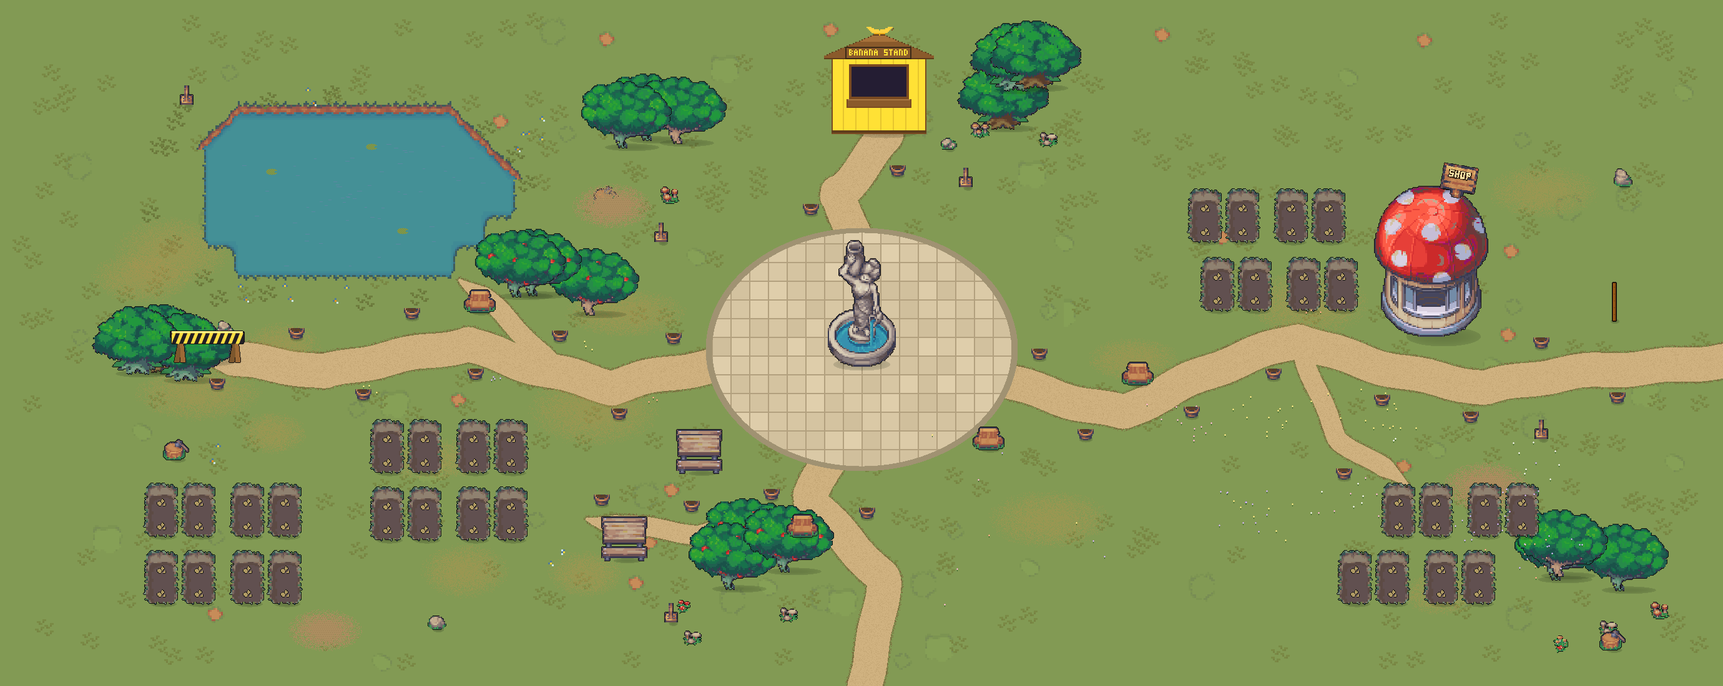
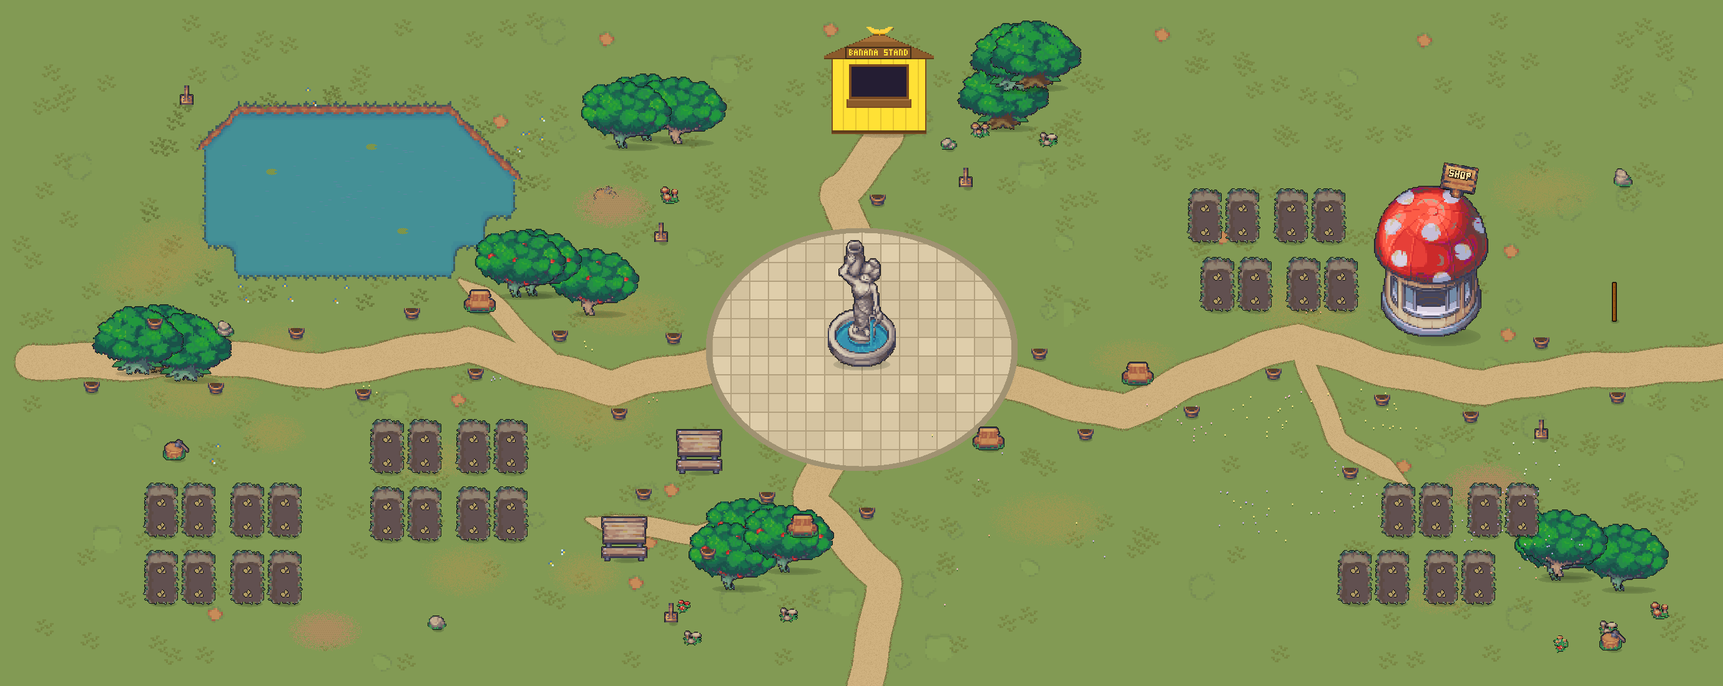
🛣 the west road opens — the Homestead joins the world's map
The park's west stub was reserved behind a sawhorse since v2; today it
falls (like the stand's north one on 30 Jul). The road now runs to the
west edge, DOORS.west walks you out to /homestead/?park, and arriving
from the homestead spawns you on it. The homestead's east road already
led here — the loop is closed, walkable both ways.
Fast travel learns the address too: The Homestead heads the door list
in every area (home first — it's home), '/homestead/?world' spawns
road-side like any walked arrival.

diff --git a/src/scripts/park-geo.js b/src/scripts/park-geo.js
@@ -7,7 +7,7 @@ export const ROAD_W = 88;
 export const POND = { x: 555, y: 315, rx: 265, ry: 150 };
 export const FOUNTAIN = [1380, 590, 109, 218, 6];
 export const MARKET = { stand: [1408, 215], cart: [2300, 545] };
-export const SIGNS = [[332, 584]];
+export const SIGNS = [];
 export const ROAD_SIGN = { x: 2586, y: 516 };
 export const OLDBENCH = [1583, 722];
 export const MEADOW = [1860, 640, 2500, 940];
@@ -16,13 +16,13 @@ export const BEDS = [[0, 1, 2, 3, 4, 5, 6, 7], [8, 9, 10, 11, 12, 13, 14, 15], [
 export const CORE_BEDS = 8;
 export const GROW_DITCHES = [[[1790, 232], [1850, 232], [1928, 232], [1988, 232]], [[2110, 232], [2170, 232], [2248, 232], [2308, 232]], [[2420, 232], [2480, 232], [2558, 232], [2618, 232]], [[1870, 842], [1930, 842], [2008, 842], [2068, 842]], [[1550, 892], [1610, 892], [1688, 892], [1748, 892]]];
 export const BED_SOLID = [-28, -50, 28, 4];
-export const BORDER_SPOTS = [[1389, 828], [1665, 573], [1739, 702], [1909, 666], [2040, 605], [2214, 647], [2356, 674], [2469, 555], [2591, 643], [1079, 548], [992, 669], [897, 544], [762, 605], [660, 508], [582, 638], [475, 540], [348, 621], [1299, 341], [1438, 279], [1236, 798], [1108, 817], [964, 807], [2153, 765]];
+export const BORDER_SPOTS = [[1389, 828], [1665, 573], [1739, 702], [1909, 666], [2040, 605], [2214, 647], [2356, 674], [2469, 555], [2591, 643], [1079, 548], [992, 669], [897, 544], [762, 605], [660, 508], [582, 638], [475, 540], [346, 628], [248, 525], [147, 626], [1406, 326], [1229, 803], [1134, 894], [1031, 798], [2163, 764]];
 export const ALGAE_SPOTS = [[380, 241], [472, 241], [518, 241], [656, 241], [702, 241], [380, 281], [472, 281], [518, 281], [564, 281], [610, 281], [656, 281], [702, 281], [748, 281], [380, 321], [426, 321], [472, 321], [518, 321], [564, 321], [610, 321], [656, 321], [702, 321], [748, 321], [380, 361], [426, 361], [472, 361], [518, 361], [564, 361], [610, 361], [702, 361], [748, 361], [426, 401], [472, 401], [518, 401], [564, 401], [610, 401], [702, 401]];
 export const BIRD_SPOTS = [[1060, 390], [1548, 302], [1076, 1000], [2470, 706], [300, 170]];
 export const BIRD_SPECIES = ['blue-jay','cardinal','cedar-waxwing','chickadee','crow','house-finch','hummingbird','magpie','red-robin','stellers-jay','white-dove','wood-thrush'];
-export const DOORS = { south: { x: 1380, y: 1060 }, east: { x: 2700, y: 560 } };
-export const OB_RECTS = [[247, 562, 273, 598], [284, 576, 310, 612], [207, 565, 233, 601], [1029, 190, 1055, 226], [1078, 195, 1104, 231], [990, 202, 1016, 238], [1188, 871, 1214, 907], [1162, 910, 1188, 946], [1250, 882, 1276, 918], [1593, 172, 1619, 208], [1613, 111, 1639, 147], [1645, 107, 1671, 143], [2587, 912, 2613, 948], [2485, 895, 2511, 931], [2490, 889, 2516, 925], [938, 470, 964, 506], [846, 439, 872, 475], [820, 441, 846, 477], [1324, 159, 1492, 221], [2200, 487, 2400, 551], [2212, 812, 2268, 866], [2272, 812, 2328, 866], [2350, 812, 2406, 866], [2410, 812, 2466, 866], [230, 812, 286, 866], [290, 812, 346, 866], [368, 812, 424, 866], [428, 812, 484, 866], [1922, 450, 1978, 504], [1982, 450, 2038, 504], [2060, 450, 2116, 504], [2120, 450, 2176, 504], [2142, 920, 2198, 974], [2202, 920, 2258, 974], [2280, 920, 2336, 974], [2340, 920, 2396, 974], [230, 920, 286, 974], [290, 920, 346, 974], [368, 920, 424, 974], [428, 920, 484, 974], [1902, 340, 1958, 394], [1962, 340, 2018, 394], [2040, 340, 2096, 394], [2100, 340, 2156, 394], [592, 710, 648, 764], [652, 710, 708, 764], [730, 710, 786, 764], [790, 710, 846, 764], [592, 818, 648, 872], [652, 818, 708, 872], [730, 818, 786, 872], [790, 818, 846, 872], [1076, 730, 1164, 766], [956, 870, 1044, 906], [734, 484, 802, 506], [1788, 600, 1856, 622], [1251, 844, 1319, 866], [1549, 704, 1617, 726], [288, 566, 376, 588]];
+export const DOORS = { south: { x: 1380, y: 1060 }, east: { x: 2700, y: 560 }, west: { x: 60, y: 585 } };
+export const OB_RECTS = [[247, 562, 273, 598], [284, 576, 310, 612], [207, 565, 233, 601], [1029, 190, 1055, 226], [1078, 195, 1104, 231], [990, 202, 1016, 238], [1188, 871, 1214, 907], [1162, 910, 1188, 946], [1250, 882, 1276, 918], [1593, 172, 1619, 208], [1613, 111, 1639, 147], [1645, 107, 1671, 143], [2587, 912, 2613, 948], [2485, 895, 2511, 931], [2490, 889, 2516, 925], [938, 470, 964, 506], [846, 439, 872, 475], [820, 441, 846, 477], [1324, 159, 1492, 221], [2200, 487, 2400, 551], [2212, 812, 2268, 866], [2272, 812, 2328, 866], [2350, 812, 2406, 866], [2410, 812, 2466, 866], [230, 812, 286, 866], [290, 812, 346, 866], [368, 812, 424, 866], [428, 812, 484, 866], [1922, 450, 1978, 504], [1982, 450, 2038, 504], [2060, 450, 2116, 504], [2120, 450, 2176, 504], [2142, 920, 2198, 974], [2202, 920, 2258, 974], [2280, 920, 2336, 974], [2340, 920, 2396, 974], [230, 920, 286, 974], [290, 920, 346, 974], [368, 920, 424, 974], [428, 920, 484, 974], [1902, 340, 1958, 394], [1962, 340, 2018, 394], [2040, 340, 2096, 394], [2100, 340, 2156, 394], [592, 710, 648, 764], [652, 710, 708, 764], [730, 710, 786, 764], [790, 710, 846, 764], [592, 818, 648, 872], [652, 818, 708, 872], [730, 818, 786, 872], [790, 818, 846, 872], [1076, 730, 1164, 766], [956, 870, 1044, 906], [734, 484, 802, 506], [1788, 600, 1856, 622], [1251, 844, 1319, 866], [1549, 704, 1617, 726]];
 export const OB_CIRCLES = [[970, 332, 20], [2583, 1043, 20], [282, 738, 20], [1380, 570, 39], [360, 540, 20], [2600, 300, 20], [1520, 240, 20], [700, 1010, 20], [2586, 516, 8], [1060, 390, 12], [1548, 302, 12], [1076, 1000, 12], [2470, 706, 12], [300, 170, 12]];
 export const OVERLAYS = [['ov-0.png', 187, 488, 147, 110, 598], ['ov-1.png', 224, 502, 147, 110, 612], ['ov-2.png', 147, 491, 147, 110, 601], ['ov-3.png', 970, 118, 145, 108, 226], ['ov-4.png', 1019, 123, 145, 108, 231], ['ov-5.png', 931, 130, 145, 108, 238], ['ov-6.png', 1129, 799, 145, 108, 907], ['ov-7.png', 1103, 838, 145, 108, 946], ['ov-8.png', 1191, 810, 145, 108, 918], ['ov-9.png', 1533, 98, 147, 110, 208], ['ov-10.png', 1553, 37, 147, 110, 147], ['ov-11.png', 1585, 33, 147, 110, 143], ['ov-12.png', 2528, 840, 145, 108, 948], ['ov-13.png', 2426, 823, 145, 108, 931], ['ov-14.png', 2431, 817, 145, 108, 925], ['ov-15.png', 879, 398, 145, 108, 506], ['ov-16.png', 787, 367, 145, 108, 475], ['ov-17.png', 761, 369, 145, 108, 477], ['ov-18.png', 1320, 43, 176, 172, 215], ['ov-19.png', 2201, 260, 199, 285, 545], ['ov-20.png', 1083, 688, 74, 72, 760], ['ov-21.png', 963, 828, 74, 72, 900], ['ov-22.png', 2582, 452, 8, 64, 516]];
 export const TREE_OVS = [0, 1, 2, 3, 4, 5, 6, 7, 8, 9, 10, 11, 12, 13, 14, 15, 16, 17];
-export const WEED_GRID = [[120,120],[168,120],[216,120],[264,120],[312,120],[360,120],[408,120],[456,120],[648,120],[696,120],[744,120],[792,120],[840,120],[888,120],[936,120],[984,120],[1032,120],[1080,120],[1128,120],[1176,120],[1224,120],[1272,120],[1320,120],[1464,120],[1512,120],[1560,120],[1704,120],[2040,120],[120,168],[168,168],[216,168],[264,168],[792,168],[840,168],[888,168],[936,168],[984,168],[1032,168],[1080,168],[1128,168],[1176,168],[1224,168],[1272,168],[1512,168],[1560,168],[1656,168],[1704,168],[2040,168],[120,216],[168,216],[216,216],[264,216],[840,216],[888,216],[936,216],[1128,216],[1176,216],[1224,216],[1272,216],[1560,216],[1656,216],[1704,216],[2040,216],[120,264],[168,264],[216,264],[888,264],[936,264],[984,264],[1032,264],[1080,264],[1128,264],[1176,264],[1224,264],[1272,264],[1560,264],[1608,264],[1656,264],[1704,264],[1752,264],[1800,264],[1848,264],[1896,264],[1944,264],[1992,264],[2040,264],[2088,264],[2136,264],[2184,264],[2232,264],[2280,264],[2328,264],[2376,264],[2424,264],[2472,264],[2520,264],[2568,264],[2616,264],[120,312],[168,312],[216,312],[888,312],[936,312],[1032,312],[1080,312],[1128,312],[1176,312],[1224,312],[1464,312],[1512,312],[1608,312],[1656,312],[1704,312],[1752,312],[1800,312],[1848,312],[2232,312],[2280,312],[2328,312],[2376,312],[2424,312],[2472,312],[2520,312],[120,360],[168,360],[216,360],[888,360],[936,360],[1032,360],[1080,360],[1128,360],[1176,360],[1224,360],[1560,360],[1608,360],[1656,360],[1704,360],[1752,360],[1800,360],[1848,360],[2232,360],[2280,360],[2328,360],[2376,360],[2424,360],[2472,360],[2520,360],[2568,360],[2616,360],[120,408],[168,408],[216,408],[264,408],[840,408],[888,408],[936,408],[984,408],[1032,408],[1128,408],[1608,408],[1656,408],[1704,408],[1752,408],[1800,408],[1848,408],[2232,408],[2280,408],[2328,408],[2376,408],[2424,408],[2472,408],[2520,408],[2568,408],[2616,408],[120,456],[168,456],[216,456],[264,456],[312,456],[984,456],[1032,456],[1080,456],[1656,456],[1704,456],[1752,456],[1800,456],[1848,456],[2232,456],[2280,456],[2328,456],[2376,456],[2424,456],[2472,456],[2520,456],[2568,456],[2616,456],[120,504],[168,504],[216,504],[264,504],[312,504],[360,504],[408,504],[888,504],[984,504],[1032,504],[1080,504],[1704,504],[1752,504],[1800,504],[1848,504],[2424,504],[2472,504],[2520,504],[2616,504],[120,552],[168,552],[984,552],[1704,552],[1752,552],[1800,552],[1848,552],[2424,552],[120,600],[168,600],[120,648],[168,648],[216,648],[264,648],[312,648],[408,648],[456,648],[1992,648],[2040,648],[120,696],[168,696],[216,696],[264,696],[312,696],[360,696],[408,696],[456,696],[504,696],[552,696],[888,696],[936,696],[1032,696],[1080,696],[1128,696],[1656,696],[1944,696],[1992,696],[2040,696],[2232,696],[2280,696],[2424,696],[2520,696],[2568,696],[2616,696],[120,744],[168,744],[216,744],[360,744],[408,744],[456,744],[504,744],[552,744],[888,744],[936,744],[984,744],[1032,744],[1608,744],[1656,744],[1704,744],[1752,744],[1800,744],[2280,744],[2328,744],[2376,744],[2424,744],[2472,744],[2520,744],[2568,744],[2616,744],[120,792],[168,792],[552,792],[888,792],[1032,792],[1176,792],[1464,792],[1800,792],[2520,792],[2568,792],[2616,792],[120,840],[168,840],[552,840],[888,840],[1464,840],[1800,840],[2520,840],[2568,840],[2616,840],[120,888],[168,888],[552,888],[888,888],[936,888],[1800,888],[1848,888],[1896,888],[1944,888],[1992,888],[2040,888],[2088,888],[2568,888],[2616,888],[120,936],[168,936],[552,936],[600,936],[648,936],[696,936],[744,936],[792,936],[840,936],[888,936],[936,936],[984,936],[1032,936],[1080,936],[1128,936],[1224,936],[1272,936],[1320,936],[1512,936],[1560,936],[1608,936],[1656,936],[1704,936],[1752,936],[1800,936],[1848,936],[1896,936],[1944,936],[1992,936],[2040,936],[2088,936],[2568,936]];
+export const WEED_GRID = [[120,120],[168,120],[216,120],[264,120],[312,120],[360,120],[408,120],[456,120],[648,120],[696,120],[744,120],[792,120],[840,120],[888,120],[936,120],[984,120],[1032,120],[1080,120],[1128,120],[1176,120],[1224,120],[1272,120],[1320,120],[1464,120],[1512,120],[1560,120],[1704,120],[2040,120],[120,168],[168,168],[216,168],[264,168],[792,168],[840,168],[888,168],[936,168],[984,168],[1032,168],[1080,168],[1128,168],[1176,168],[1224,168],[1272,168],[1512,168],[1560,168],[1656,168],[1704,168],[2040,168],[120,216],[168,216],[216,216],[264,216],[840,216],[888,216],[936,216],[1128,216],[1176,216],[1224,216],[1272,216],[1560,216],[1656,216],[1704,216],[2040,216],[120,264],[168,264],[216,264],[888,264],[936,264],[984,264],[1032,264],[1080,264],[1128,264],[1176,264],[1224,264],[1272,264],[1464,264],[1560,264],[1608,264],[1656,264],[1704,264],[1752,264],[1800,264],[1848,264],[1896,264],[1944,264],[1992,264],[2040,264],[2088,264],[2136,264],[2184,264],[2232,264],[2280,264],[2328,264],[2376,264],[2424,264],[2472,264],[2520,264],[2568,264],[2616,264],[120,312],[168,312],[216,312],[888,312],[936,312],[1032,312],[1080,312],[1128,312],[1176,312],[1224,312],[1272,312],[1464,312],[1512,312],[1608,312],[1656,312],[1704,312],[1752,312],[1800,312],[1848,312],[2232,312],[2280,312],[2328,312],[2376,312],[2424,312],[2472,312],[2520,312],[120,360],[168,360],[216,360],[888,360],[936,360],[1032,360],[1080,360],[1128,360],[1176,360],[1224,360],[1560,360],[1608,360],[1656,360],[1704,360],[1752,360],[1800,360],[1848,360],[2232,360],[2280,360],[2328,360],[2376,360],[2424,360],[2472,360],[2520,360],[2568,360],[2616,360],[120,408],[168,408],[216,408],[264,408],[840,408],[888,408],[936,408],[984,408],[1032,408],[1128,408],[1608,408],[1656,408],[1704,408],[1752,408],[1800,408],[1848,408],[2232,408],[2280,408],[2328,408],[2376,408],[2424,408],[2472,408],[2520,408],[2568,408],[2616,408],[120,456],[168,456],[216,456],[264,456],[312,456],[984,456],[1032,456],[1080,456],[1656,456],[1704,456],[1752,456],[1800,456],[1848,456],[2232,456],[2280,456],[2328,456],[2376,456],[2424,456],[2472,456],[2520,456],[2568,456],[2616,456],[120,504],[168,504],[312,504],[360,504],[408,504],[888,504],[984,504],[1032,504],[1080,504],[1704,504],[1752,504],[1800,504],[1848,504],[2424,504],[2472,504],[2520,504],[2616,504],[984,552],[1704,552],[1752,552],[1800,552],[1848,552],[2424,552],[216,648],[264,648],[408,648],[456,648],[1992,648],[2040,648],[120,696],[168,696],[216,696],[264,696],[312,696],[360,696],[408,696],[456,696],[504,696],[552,696],[888,696],[936,696],[1032,696],[1080,696],[1128,696],[1656,696],[1944,696],[1992,696],[2040,696],[2232,696],[2280,696],[2424,696],[2520,696],[2568,696],[2616,696],[120,744],[168,744],[216,744],[360,744],[408,744],[456,744],[504,744],[552,744],[888,744],[936,744],[984,744],[1032,744],[1608,744],[1656,744],[1704,744],[1752,744],[1800,744],[2280,744],[2328,744],[2376,744],[2424,744],[2472,744],[2520,744],[2568,744],[2616,744],[120,792],[168,792],[552,792],[888,792],[936,792],[984,792],[1080,792],[1128,792],[1176,792],[1464,792],[1800,792],[2520,792],[2568,792],[2616,792],[120,840],[168,840],[552,840],[888,840],[1464,840],[1800,840],[2520,840],[2568,840],[2616,840],[120,888],[168,888],[552,888],[888,888],[936,888],[1800,888],[1848,888],[1896,888],[1944,888],[1992,888],[2040,888],[2088,888],[2568,888],[2616,888],[120,936],[168,936],[552,936],[600,936],[648,936],[696,936],[744,936],[792,936],[840,936],[888,936],[936,936],[984,936],[1032,936],[1080,936],[1128,936],[1224,936],[1272,936],[1320,936],[1512,936],[1560,936],[1608,936],[1656,936],[1704,936],[1752,936],[1800,936],[1848,936],[1896,936],[1944,936],[1992,936],[2040,936],[2088,936],[2568,936]];

diff --git a/worker-rave/src/park-weed-grid.js b/worker-rave/src/park-weed-grid.js
@@ -1,6 +1,6 @@
 // GENERATED by tools/build-park-scene.py — the park weed lattice.
 // DO NOT EDIT (twin of WEED_GRID in src/scripts/park-geo.js).
-export const WEED_GRID = [[120,120],[168,120],[216,120],[264,120],[312,120],[360,120],[408,120],[456,120],[648,120],[696,120],[744,120],[792,120],[840,120],[888,120],[936,120],[984,120],[1032,120],[1080,120],[1128,120],[1176,120],[1224,120],[1272,120],[1320,120],[1464,120],[1512,120],[1560,120],[1704,120],[2040,120],[120,168],[168,168],[216,168],[264,168],[792,168],[840,168],[888,168],[936,168],[984,168],[1032,168],[1080,168],[1128,168],[1176,168],[1224,168],[1272,168],[1512,168],[1560,168],[1656,168],[1704,168],[2040,168],[120,216],[168,216],[216,216],[264,216],[840,216],[888,216],[936,216],[1128,216],[1176,216],[1224,216],[1272,216],[1560,216],[1656,216],[1704,216],[2040,216],[120,264],[168,264],[216,264],[888,264],[936,264],[984,264],[1032,264],[1080,264],[1128,264],[1176,264],[1224,264],[1272,264],[1560,264],[1608,264],[1656,264],[1704,264],[1752,264],[1800,264],[1848,264],[1896,264],[1944,264],[1992,264],[2040,264],[2088,264],[2136,264],[2184,264],[2232,264],[2280,264],[2328,264],[2376,264],[2424,264],[2472,264],[2520,264],[2568,264],[2616,264],[120,312],[168,312],[216,312],[888,312],[936,312],[1032,312],[1080,312],[1128,312],[1176,312],[1224,312],[1464,312],[1512,312],[1608,312],[1656,312],[1704,312],[1752,312],[1800,312],[1848,312],[2232,312],[2280,312],[2328,312],[2376,312],[2424,312],[2472,312],[2520,312],[120,360],[168,360],[216,360],[888,360],[936,360],[1032,360],[1080,360],[1128,360],[1176,360],[1224,360],[1560,360],[1608,360],[1656,360],[1704,360],[1752,360],[1800,360],[1848,360],[2232,360],[2280,360],[2328,360],[2376,360],[2424,360],[2472,360],[2520,360],[2568,360],[2616,360],[120,408],[168,408],[216,408],[264,408],[840,408],[888,408],[936,408],[984,408],[1032,408],[1128,408],[1608,408],[1656,408],[1704,408],[1752,408],[1800,408],[1848,408],[2232,408],[2280,408],[2328,408],[2376,408],[2424,408],[2472,408],[2520,408],[2568,408],[2616,408],[120,456],[168,456],[216,456],[264,456],[312,456],[984,456],[1032,456],[1080,456],[1656,456],[1704,456],[1752,456],[1800,456],[1848,456],[2232,456],[2280,456],[2328,456],[2376,456],[2424,456],[2472,456],[2520,456],[2568,456],[2616,456],[120,504],[168,504],[216,504],[264,504],[312,504],[360,504],[408,504],[888,504],[984,504],[1032,504],[1080,504],[1704,504],[1752,504],[1800,504],[1848,504],[2424,504],[2472,504],[2520,504],[2616,504],[120,552],[168,552],[984,552],[1704,552],[1752,552],[1800,552],[1848,552],[2424,552],[120,600],[168,600],[120,648],[168,648],[216,648],[264,648],[312,648],[408,648],[456,648],[1992,648],[2040,648],[120,696],[168,696],[216,696],[264,696],[312,696],[360,696],[408,696],[456,696],[504,696],[552,696],[888,696],[936,696],[1032,696],[1080,696],[1128,696],[1656,696],[1944,696],[1992,696],[2040,696],[2232,696],[2280,696],[2424,696],[2520,696],[2568,696],[2616,696],[120,744],[168,744],[216,744],[360,744],[408,744],[456,744],[504,744],[552,744],[888,744],[936,744],[984,744],[1032,744],[1608,744],[1656,744],[1704,744],[1752,744],[1800,744],[2280,744],[2328,744],[2376,744],[2424,744],[2472,744],[2520,744],[2568,744],[2616,744],[120,792],[168,792],[552,792],[888,792],[1032,792],[1176,792],[1464,792],[1800,792],[2520,792],[2568,792],[2616,792],[120,840],[168,840],[552,840],[888,840],[1464,840],[1800,840],[2520,840],[2568,840],[2616,840],[120,888],[168,888],[552,888],[888,888],[936,888],[1800,888],[1848,888],[1896,888],[1944,888],[1992,888],[2040,888],[2088,888],[2568,888],[2616,888],[120,936],[168,936],[552,936],[600,936],[648,936],[696,936],[744,936],[792,936],[840,936],[888,936],[936,936],[984,936],[1032,936],[1080,936],[1128,936],[1224,936],[1272,936],[1320,936],[1512,936],[1560,936],[1608,936],[1656,936],[1704,936],[1752,936],[1800,936],[1848,936],[1896,936],[1944,936],[1992,936],[2040,936],[2088,936],[2568,936]];
-export const BORDER_SPOTS_N = 23;
+export const WEED_GRID = [[120,120],[168,120],[216,120],[264,120],[312,120],[360,120],[408,120],[456,120],[648,120],[696,120],[744,120],[792,120],[840,120],[888,120],[936,120],[984,120],[1032,120],[1080,120],[1128,120],[1176,120],[1224,120],[1272,120],[1320,120],[1464,120],[1512,120],[1560,120],[1704,120],[2040,120],[120,168],[168,168],[216,168],[264,168],[792,168],[840,168],[888,168],[936,168],[984,168],[1032,168],[1080,168],[1128,168],[1176,168],[1224,168],[1272,168],[1512,168],[1560,168],[1656,168],[1704,168],[2040,168],[120,216],[168,216],[216,216],[264,216],[840,216],[888,216],[936,216],[1128,216],[1176,216],[1224,216],[1272,216],[1560,216],[1656,216],[1704,216],[2040,216],[120,264],[168,264],[216,264],[888,264],[936,264],[984,264],[1032,264],[1080,264],[1128,264],[1176,264],[1224,264],[1272,264],[1464,264],[1560,264],[1608,264],[1656,264],[1704,264],[1752,264],[1800,264],[1848,264],[1896,264],[1944,264],[1992,264],[2040,264],[2088,264],[2136,264],[2184,264],[2232,264],[2280,264],[2328,264],[2376,264],[2424,264],[2472,264],[2520,264],[2568,264],[2616,264],[120,312],[168,312],[216,312],[888,312],[936,312],[1032,312],[1080,312],[1128,312],[1176,312],[1224,312],[1272,312],[1464,312],[1512,312],[1608,312],[1656,312],[1704,312],[1752,312],[1800,312],[1848,312],[2232,312],[2280,312],[2328,312],[2376,312],[2424,312],[2472,312],[2520,312],[120,360],[168,360],[216,360],[888,360],[936,360],[1032,360],[1080,360],[1128,360],[1176,360],[1224,360],[1560,360],[1608,360],[1656,360],[1704,360],[1752,360],[1800,360],[1848,360],[2232,360],[2280,360],[2328,360],[2376,360],[2424,360],[2472,360],[2520,360],[2568,360],[2616,360],[120,408],[168,408],[216,408],[264,408],[840,408],[888,408],[936,408],[984,408],[1032,408],[1128,408],[1608,408],[1656,408],[1704,408],[1752,408],[1800,408],[1848,408],[2232,408],[2280,408],[2328,408],[2376,408],[2424,408],[2472,408],[2520,408],[2568,408],[2616,408],[120,456],[168,456],[216,456],[264,456],[312,456],[984,456],[1032,456],[1080,456],[1656,456],[1704,456],[1752,456],[1800,456],[1848,456],[2232,456],[2280,456],[2328,456],[2376,456],[2424,456],[2472,456],[2520,456],[2568,456],[2616,456],[120,504],[168,504],[312,504],[360,504],[408,504],[888,504],[984,504],[1032,504],[1080,504],[1704,504],[1752,504],[1800,504],[1848,504],[2424,504],[2472,504],[2520,504],[2616,504],[984,552],[1704,552],[1752,552],[1800,552],[1848,552],[2424,552],[216,648],[264,648],[408,648],[456,648],[1992,648],[2040,648],[120,696],[168,696],[216,696],[264,696],[312,696],[360,696],[408,696],[456,696],[504,696],[552,696],[888,696],[936,696],[1032,696],[1080,696],[1128,696],[1656,696],[1944,696],[1992,696],[2040,696],[2232,696],[2280,696],[2424,696],[2520,696],[2568,696],[2616,696],[120,744],[168,744],[216,744],[360,744],[408,744],[456,744],[504,744],[552,744],[888,744],[936,744],[984,744],[1032,744],[1608,744],[1656,744],[1704,744],[1752,744],[1800,744],[2280,744],[2328,744],[2376,744],[2424,744],[2472,744],[2520,744],[2568,744],[2616,744],[120,792],[168,792],[552,792],[888,792],[936,792],[984,792],[1080,792],[1128,792],[1176,792],[1464,792],[1800,792],[2520,792],[2568,792],[2616,792],[120,840],[168,840],[552,840],[888,840],[1464,840],[1800,840],[2520,840],[2568,840],[2616,840],[120,888],[168,888],[552,888],[888,888],[936,888],[1800,888],[1848,888],[1896,888],[1944,888],[1992,888],[2040,888],[2088,888],[2568,888],[2616,888],[120,936],[168,936],[552,936],[600,936],[648,936],[696,936],[744,936],[792,936],[840,936],[888,936],[936,936],[984,936],[1032,936],[1080,936],[1128,936],[1224,936],[1272,936],[1320,936],[1512,936],[1560,936],[1608,936],[1656,936],[1704,936],[1752,936],[1800,936],[1848,936],[1896,936],[1944,936],[1992,936],[2040,936],[2088,936],[2568,936]];
+export const BORDER_SPOTS_N = 24;
 export const ALGAE_SPOTS = [[380,241],[472,241],[518,241],[656,241],[702,241],[380,281],[472,281],[518,281],[564,281],[610,281],[656,281],[702,281],[748,281],[380,321],[426,321],[472,321],[518,321],[564,321],[610,321],[656,321],[702,321],[748,321],[380,361],[426,361],[472,361],[518,361],[564,361],[610,361],[702,361],[748,361],[426,401],[472,401],[518,401],[564,401],[610,401],[702,401]];
 export const BIRD_SPOTS_N = 5;

diff --git a/src/scripts/banana-park.js b/src/scripts/banana-park.js
@@ -342,15 +342,18 @@ function init() {
   // ---- spawn: arrive through the door you came in by ----------------------
   const fromBeach = /[?&]beach(?:=|&|$)/.test(location.search);
   const fromRave = /[?&]rave(?:=|&|$)/.test(location.search);
+  const fromHomestead = /[?&]homestead(?:=|&|$)/.test(location.search);
   const pos = fromBeach ? { x: 2610, y: DOORS.east.y }
     : fromRave ? { x: DOORS.south.x, y: 1008 }
-      : { x: 1380, y: 820 };                       // the plaza's south edge
+      : fromHomestead ? { x: 150, y: DOORS.west.y }
+        : { x: 1380, y: 820 };                       // the plaza's south edge
   const tgt = fromBeach ? { x: 2480, y: DOORS.east.y }
     : fromRave ? { x: DOORS.south.x, y: 900 }
-      : { x: 1380, y: 740 };
+      : fromHomestead ? { x: 300, y: DOORS.west.y }
+        : { x: 1380, y: 740 };
   let meWX = NaN, meWY = NaN;   // change-guard
   const c0 = camTarget(); camX = c0.x; camY = c0.y;
-  track('park_join', { via: fromBeach ? 'beach' : fromRave ? 'rave' : 'direct' });
+  track('park_join', { via: fromBeach ? 'beach' : fromRave ? 'rave' : fromHomestead ? 'homestead' : 'direct' });
 
   // ---- walking ------------------------------------------------------------
   const SPEED = 168;
@@ -371,13 +374,15 @@ function init() {
   const DOOR_DEFS = [
     { x: DOORS.south.x, y: DOORS.south.y, href: '/rave/', label: 'keep walking ↓ back to the rave' },
     { x: DOORS.east.x, y: DOORS.east.y, href: '/beach/?park', label: 'keep walking → to Banana Bay' },
+    { x: DOORS.west.x, y: DOORS.west.y, href: '/homestead/?park', label: 'keep walking ← to the Homestead' },
   ];
   const DOOR_ZONE = 130, DOOR_GO = 36, DOOR_ARM = 180;
   let doorArmed = false, leaving = false, stripOn = -1;
   function exitTo(href) {
     if (leaving) return;
     leaving = true;
-    track('park_exit', { to: href.indexOf('/beach/') === 0 ? 'beach' : 'rave' });
+    track('park_exit', { to: href.indexOf('/beach/') === 0 ? 'beach'
+      : href.indexOf('/homestead/') === 0 ? 'homestead' : 'rave' });
     try { parkRoom.leave(); } catch (e) {}   // poof for everyone the instant you go
     if (REDUCED) { location.href = href; return; }
     cutEl.classList.add('is-on');

diff --git a/src/scripts/world-travel.js b/src/scripts/world-travel.js
@@ -14,16 +14,18 @@
 // one line per row — Trym 3 Aug: the two-line rows read asymmetric, so the
 // descriptions went. The name + icon is the whole pitch.
 const AREAS = {
+  homestead: { icon: '🏡', name: 'The Homestead' },
   rave: { icon: '🪩', name: 'The Rave' },
   park: { icon: '🌳', name: 'The Park' },
   beach: { icon: '🏖', name: 'Banana Bay' },
 };
-const ORDER = ['rave', 'park', 'beach'];
+const ORDER = ['homestead', 'rave', 'park', 'beach'];   // home first — it's home
 
 // ⚠ the arrival params are load-bearing: each world spawns you at the door you
 // came in by, so a fast travel has to say where it came FROM the same way the
 // walked doors do (park reads ?rave / ?beach, beach reads ?park / ?from=rave).
 function hrefFor(to, from) {
+  if (to === 'homestead') return '/homestead/?world';
   if (to === 'park') return '/park/?' + from;
   if (to === 'beach') return from === 'rave' ? '/beach/?from=rave' : '/beach/?park';
   return '/rave/';

diff --git a/src/scripts/banana-homestead.js b/src/scripts/banana-homestead.js
@@ -1126,8 +1126,11 @@ function init(visitDoc, visitMiss) {
   });
 
   // ---- spawn + walking ----------------------------------------------------
-  const pos = { x: SPAWN.x, y: SPAWN.y };
-  const tgt = { x: SPAWN.x - 120, y: SPAWN.y };
+  // 🛣 arriving by ROAD (walked from the park, or fast travel) spawns you
+  // on the east road heading in — the same door you leave by
+  const byRoad = /[?&](park|world)(?:=|&|$)/.test(location.search);
+  const pos = byRoad ? { x: W - 90, y: ROAD.y } : { x: SPAWN.x, y: SPAWN.y };
+  const tgt = byRoad ? { x: W - 260, y: ROAD.y } : { x: SPAWN.x - 120, y: SPAWN.y };
   const c0 = camTarget(); camX = c0.x; camY = c0.y;
   track('homestead_open', { claimed: state.claimedAt ? 1 : 0 });
 

diff --git a/tools/build-park-scene.py b/tools/build-park-scene.py
@@ -413,7 +413,7 @@ road_mask_add(road_pts([(1380, 640), (1305, 800), (1410, 930), (1380, 1100)],
 road_mask_add(road_pts([(1560, 590), (1800, 660), (2080, 545), (2380, 625),
                         (2760, 570)], HW, taper=(False, False)))  # E → the beach
 road_mask_add(road_pts([(1200, 580), (980, 625), (750, 545), (520, 605),
-                        (330, 565)], HW, taper=(False, True)))    # W stub 🚧
+                        (330, 565), (50, 585)], HW, taper=(False, False)))  # W → the Homestead
 road_mask_add(road_pts([(1385, 430), (1335, 310), (1420, 215), (1400, 140)],
                        HW, taper=(False, True)))                  # N → the stand
 # little spurs — the "every meter interesting" walks
@@ -1372,8 +1372,9 @@ if HAVE_PACK:
                         con=1.05, warm=0.02, trim=False)
 
     saw = build_sawhorse()
-    # (the north sawhorse fell 30 Jul — that road now leads TO the stand)
-    for sx, sy in ((332, 584),):                 # ON the west stub's end curve
+    # (the north sawhorse fell 30 Jul → the stand; the WEST one fell 6 Aug →
+    #  the Homestead. The builder stays for whatever road is reserved next.)
+    for sx, sy in ():
         shadow(sx, sy - 4, saw.width * 0.38, 7)
         im.alpha_composite(saw, (sx - saw.width // 2, sy - saw.height))
         im2.alpha_composite(drab(saw), (sx - saw.width // 2, sy - saw.height))
@@ -1824,7 +1825,7 @@ def emit_geo():
     # the species the client may pick from = exactly the sheets exported above
     L.append('export const BIRD_SPECIES = [%s];'
              % ','.join("'%s'" % s for s in BIRD_SPECIES))
-    L.append('export const DOORS = { south: { x: %d, y: %d }, east: { x: %d, y: %d } };'
+    L.append('export const DOORS = { south: { x: %d, y: %d }, east: { x: %d, y: %d }, west: { x: 60, y: 585 } };'
              % (CX, H - 40, W - 60, CY))
     L.append('export const OB_RECTS = %s;' % [list(r) for r in ob_rects])
     L.append('export const OB_CIRCLES = %s;' % [list(c) for c in ob_circles])
